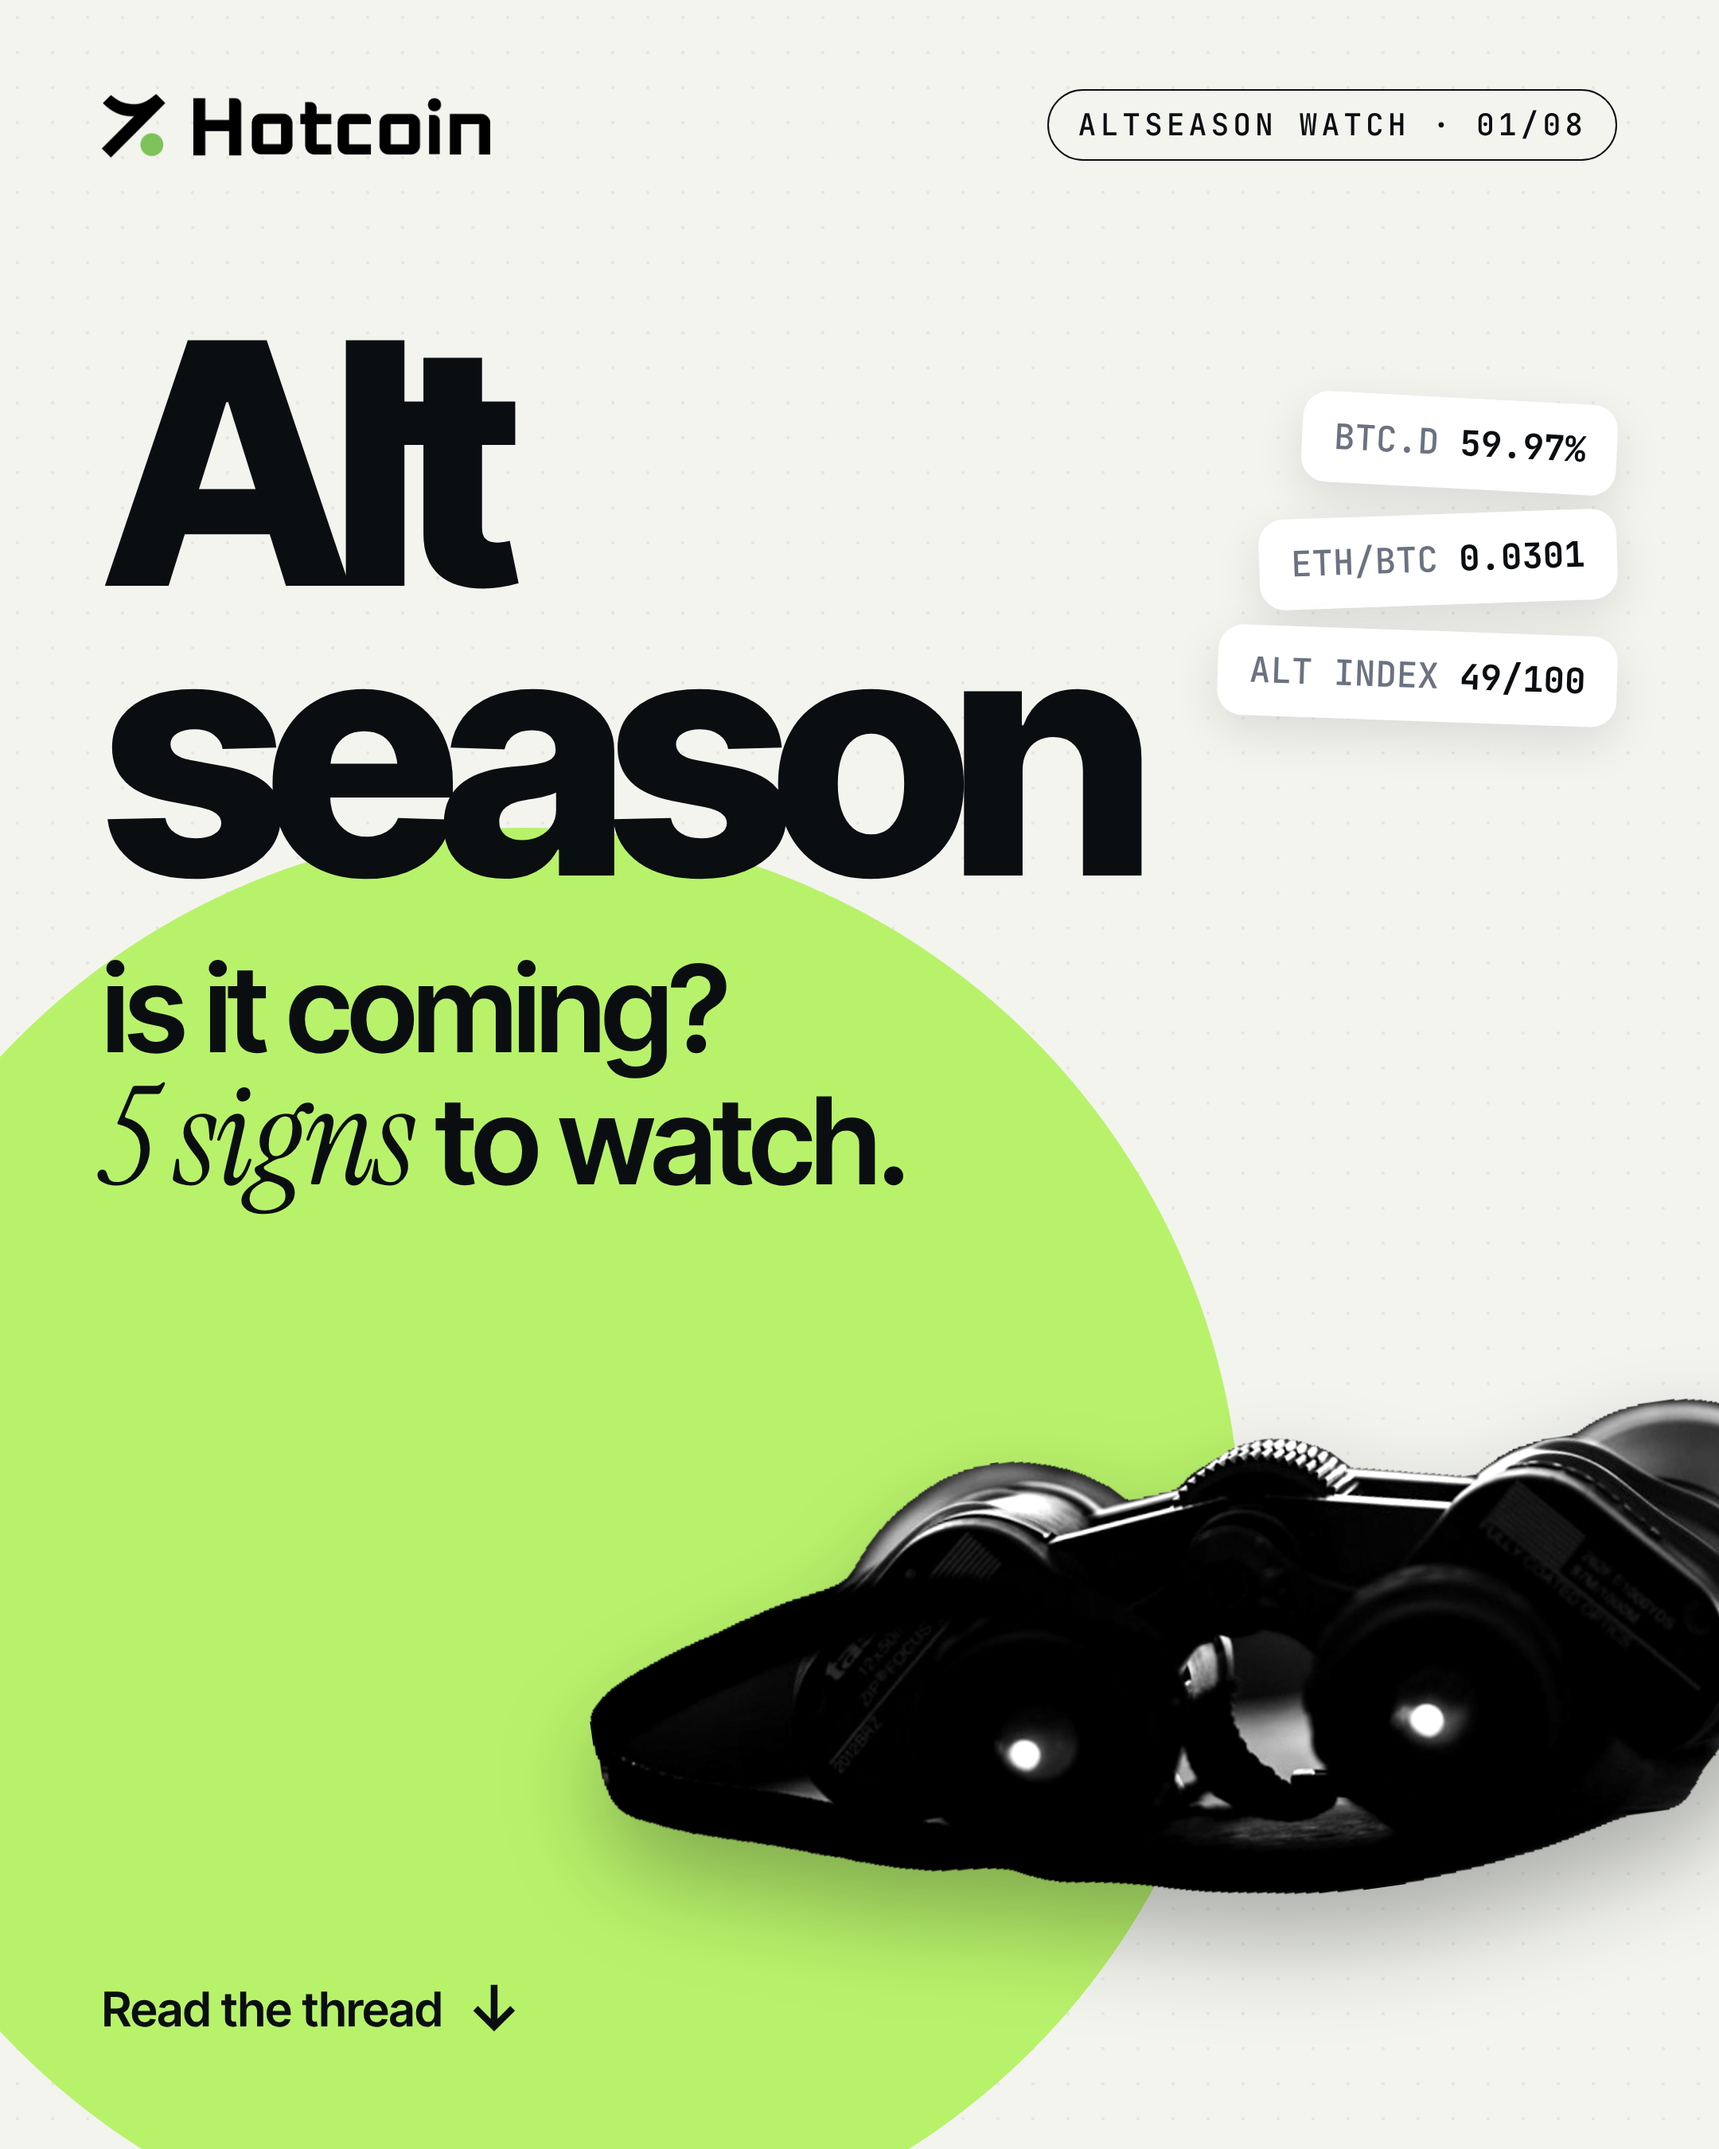
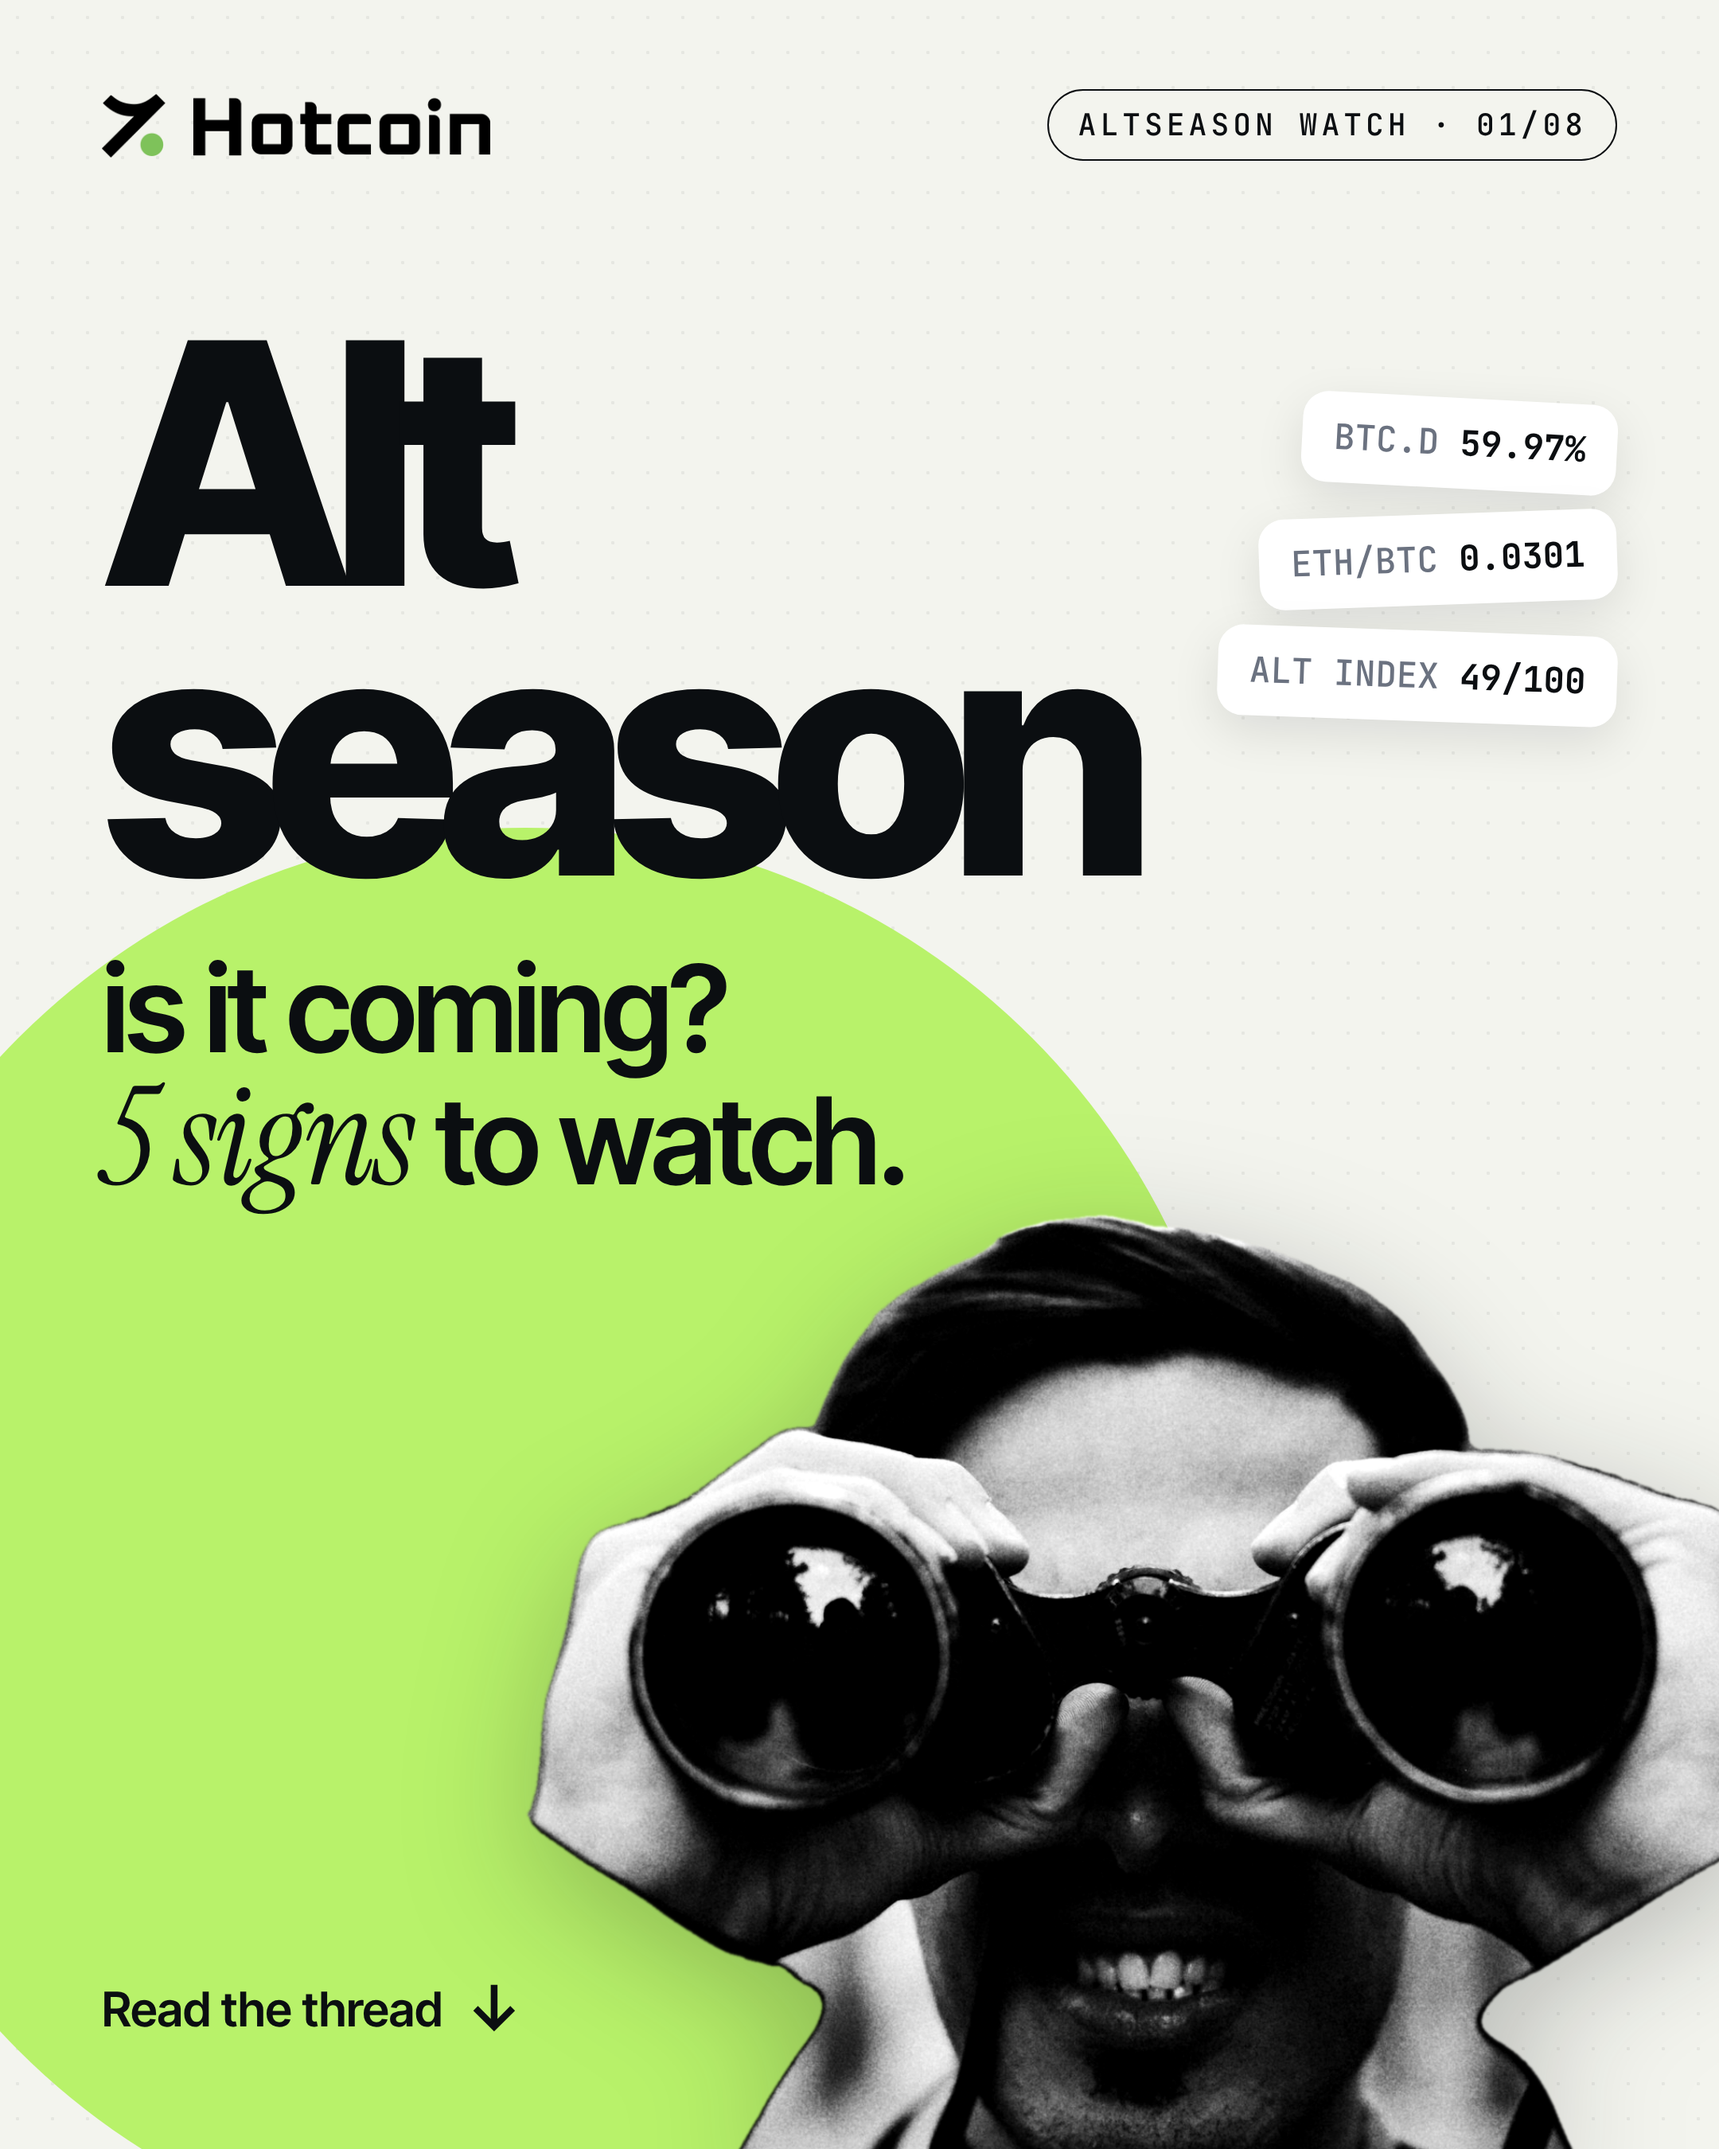
Altseason cover: B/W person with binoculars
Claude-Session: https://claude.ai/code/session_018sSiMaWLaeVrJJ4axy8xGi

Changed region(s): [[0.3102, 0.56, 1.0, 1.0]]

diff --git a/hotcoin-tradfi/FOOTAGE_CREDITS.md b/hotcoin-tradfi/FOOTAGE_CREDITS.md
@@ -345,7 +345,8 @@ All archival footage is public domain. It was found via movingimagearchive.com, 
 
 ## Altseason watch carousel (social/altseason)
 Photos from Unsplash (Unsplash License), backgrounds removed with rembg (isnet-general-use):
-- Binoculars: Ran Berkovich, https://unsplash.com/photos/kSLNVacFehs
+- Binoculars: Ran Berkovich, https://unsplash.com/photos/kSLNVacFehs (earlier cover, replaced)
+- Cover, person with binoculars (B/W): shayan ramesht, https://unsplash.com/photos/P-RkJ8CsDhw
 - Bitcoin coin: Kanchanara, https://unsplash.com/photos/7E3QGntO66M
 - Balance scale: Elena Mozhvilo, https://unsplash.com/photos/j06gLuKK0GM
 - Thermometer: Bianca Ackermann, https://unsplash.com/photos/gR8QukPoAvQ
